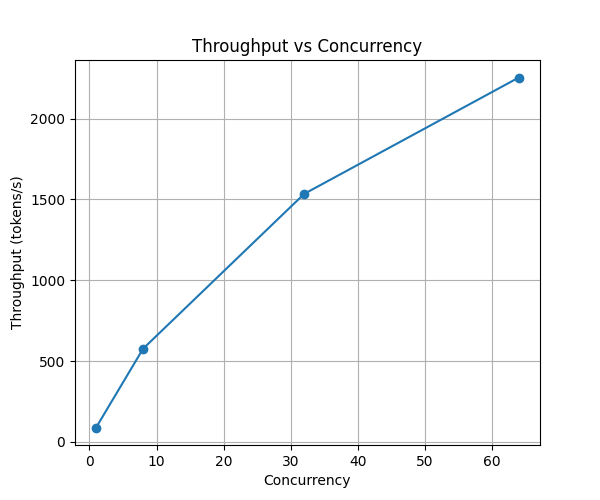
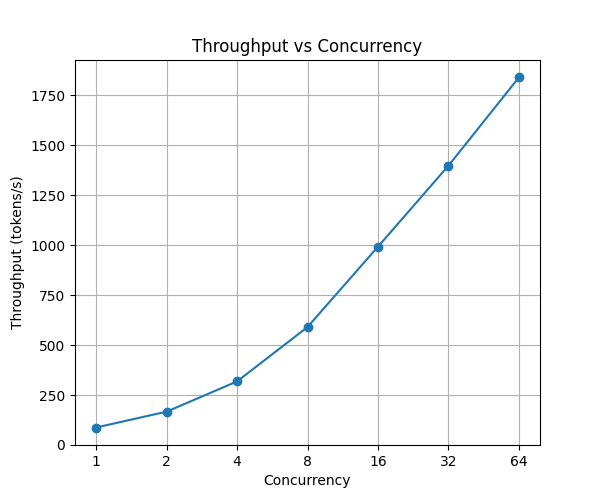
starting data!

diff --git a/analysis/plot.py b/analysis/plot.py
@@ -2,6 +2,8 @@ import json
 import matplotlib.pyplot as plt
 from pathlib import Path
 import argparse
+from matplotlib.ticker import ScalarFormatter
+  
 
 
 def load_results(results_dir: str) -> dict:
@@ -22,6 +24,8 @@ def plot_ttft(ax, data: dict):
     ax.plot(x, [data[c]["ttft_p99"] * 1000 for c in x], label="p99")
 
     ax.set_xlabel("Concurrency")
+    ax.set_xscale('log', base=2)
+    ax.xaxis.set_major_formatter(plt.FuncFormatter(lambda x, _: str(int(x))))
     ax.set_ylabel("TTFT (ms)")
     ax.set_title("TTFT vs Concurrency")
     ax.legend()
@@ -35,6 +39,8 @@ def plot_itl(ax, data: dict):
     ax.plot(x, [data[c]["itl_p99"] * 1000 for c in x], label="p99")
 
     ax.set_xlabel("Concurrency")
+    ax.set_xscale('log', base=2)
+    ax.xaxis.set_major_formatter(plt.FuncFormatter(lambda x, _: str(int(x))))
     ax.set_ylabel("ITL (ms)")
     ax.set_title("ITL vs Concurrency")
     ax.legend()
@@ -47,6 +53,8 @@ def plot_throughput(ax, data: dict):
     ax.plot(x, [data[c]["throughput_tps"] for c in x], marker='o')
 
     ax.set_xlabel("Concurrency")
+    ax.set_xscale('log', base=2)
+    ax.xaxis.set_major_formatter(plt.FuncFormatter(lambda x, _: str(int(x))))
     ax.set_ylabel("Throughput (tokens/s)")
     ax.set_title("Throughput vs Concurrency")
     ax.grid(True)
